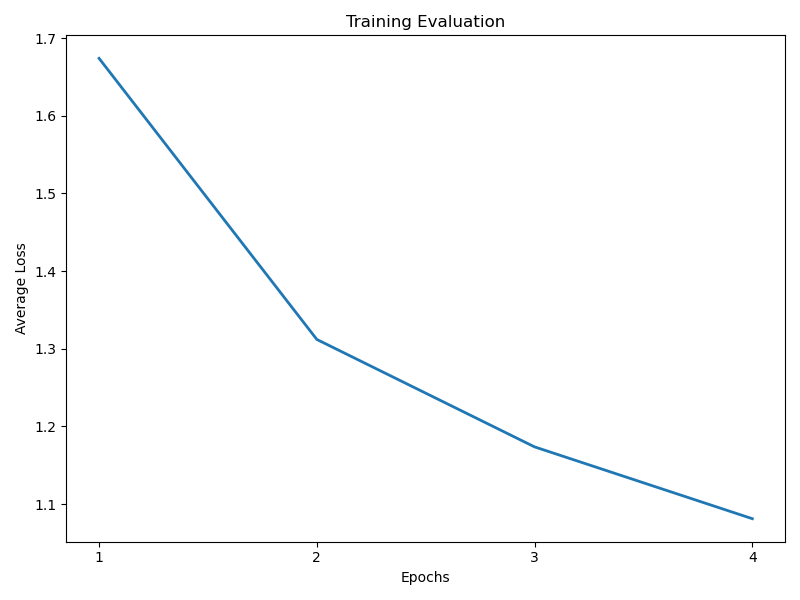
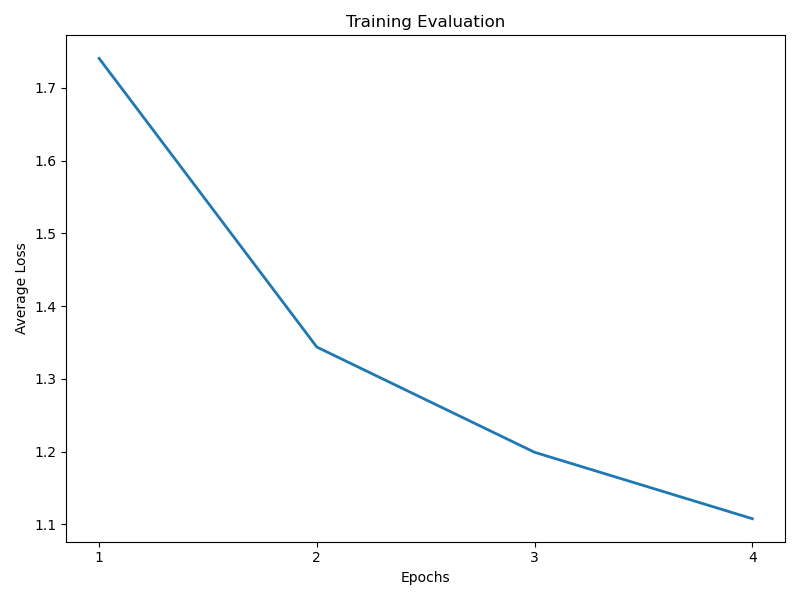
File updated

diff --git a/week1/model_with_ff_and_fb.py b/week1/model_with_ff_and_fb.py
@@ -1,0 +1,123 @@
+#Import necessary libraries
+import torch
+import torchvision
+import torchvision.transforms as transforms
+import matplotlib.pyplot as plt
+import numpy as np
+import torch.nn as nn
+import torch.nn.functional as F
+import torch.optim as optim
+
+
+#Normalizing the images
+transform= transforms.Compose([transforms.ToTensor(),transforms.Normalize((0.5,0.5,0.5),(0.5,0.5,0.5))])
+
+batch_size=4
+
+trainset=torchvision.datasets.CIFAR10(root='/home/ajinkya/projects/datasets/cifardataset',train=True,download=True,transform=transform)
+
+trainloader=torch.utils.data.DataLoader(trainset,batch_size=batch_size,shuffle=True,num_workers=4)
+
+testset=torchvision.datasets.CIFAR10(root='/home/ajinkya/projects/datasets/cifar10dataset',train=False,download=True,transform=transform)
+
+testloader=torch.utils.data.DataLoader(testset,batch_size=batch_size,shuffle=False,num_workers=4)
+
+classes= ('plane','car','bird','cat','deer','dog','frog','horse','ship','truck')
+
+class Net(nn.Module):
+    
+    def __init__(self):
+        super().__init__()
+        self.conv1=nn.Conv2d(3,6,5)
+        self.pool=nn.MaxPool2d(2,2)
+        self.conv2=nn.Conv2d(6,16,5)
+        self.fc1=nn.Linear(16*5*5,120)
+        self.fc2=nn.Linear(120,84)
+        self.fc3=nn.Linear(84,10)
+
+        #self.fc3_fb(10,84)
+        #self.fc2_fb(84,120)
+        #self.fc1_fb(120,16*5*5)
+        #self.conv2_fb(16,6,5)
+        #self.pool_fb(2,2)
+        #self.conv1_fb(6,3,5)
+
+    def forward(self,x,network_setting):
+
+        if network_setting=="forward":
+            x=self.pool(F.relu(self.conv1(x)))
+            x=self.pool(F.relu(self.conv2(x)))
+            x=torch.flatten(x,1) #Flatten all dimensions except batch
+            x=F.relu(self.fc1(x))
+            x=F.relu(self.fc2(x))
+            x=self.fc3(x)
+            return x
+        
+        elif network_setting=="backward":
+            print("stupid")
+            return x
+
+
+net=Net()
+
+criterion=nn.CrossEntropyLoss()
+optimizer=optim.SGD(net.parameters(),lr=0.001,momentum=0.9)
+
+#Training Module in forward Direction
+#We start with some epochs and then iterate through each batch in the trainloader we calculate the loss for each image and then average it over each epoch 
+
+loss_arr=[]
+for epoch in range(4):
+    
+    running_loss=[]
+    #running_loss=np.array(running_loss)
+    for batch_idx,batch in enumerate(trainloader):
+        images,labels=batch
+        optimizer.zero_grad()
+        ypred=net(images,"forward")
+        loss=criterion(ypred,labels)
+        #Used to compute the gradients of the network
+        loss.backward()
+        #This is used to update the weights of the network
+        optimizer.step()
+        #print(type(loss.item()))
+        running_loss.append(loss.item())
+        
+    avg_loss=np.mean(running_loss)
+    print(f"Epoch:{epoch} and AverageLoss:{avg_loss}")
+    loss_arr.append(avg_loss)
+
+#Testing Model
+
+#Set the model into evaluation mode
+net.eval() 
+
+    
+total_correct=0
+total_samples=0
+
+with torch.no_grad():
+    for batch_idx,batch in enumerate(testloader):
+        images,labels=batch
+        outputs=net(images,"forward")
+        #torch.max outputs the probability along specified dimension in this case 1
+        _,predicted=torch.max(outputs,1)
+        total_correct+=(predicted == labels).sum().item()
+        total_samples+=labels.size(0)
+
+accuracy=100 * (total_correct/total_samples)
+print(f'Accuracy = {accuracy:.2f}%')
+
+#print(loss_arr)
+iters=range(1,5)
+
+plt.figure(figsize=(8,6))
+plt.plot(iters,loss_arr,linewidth=2,markersize=6)
+plt.title('Training Evaluation')
+plt.xlabel("Epochs")
+plt.ylabel("Average Loss")
+plt.xticks(iters)
+plt.tight_layout()
+plt.savefig('tr_loss.png')
+
+
